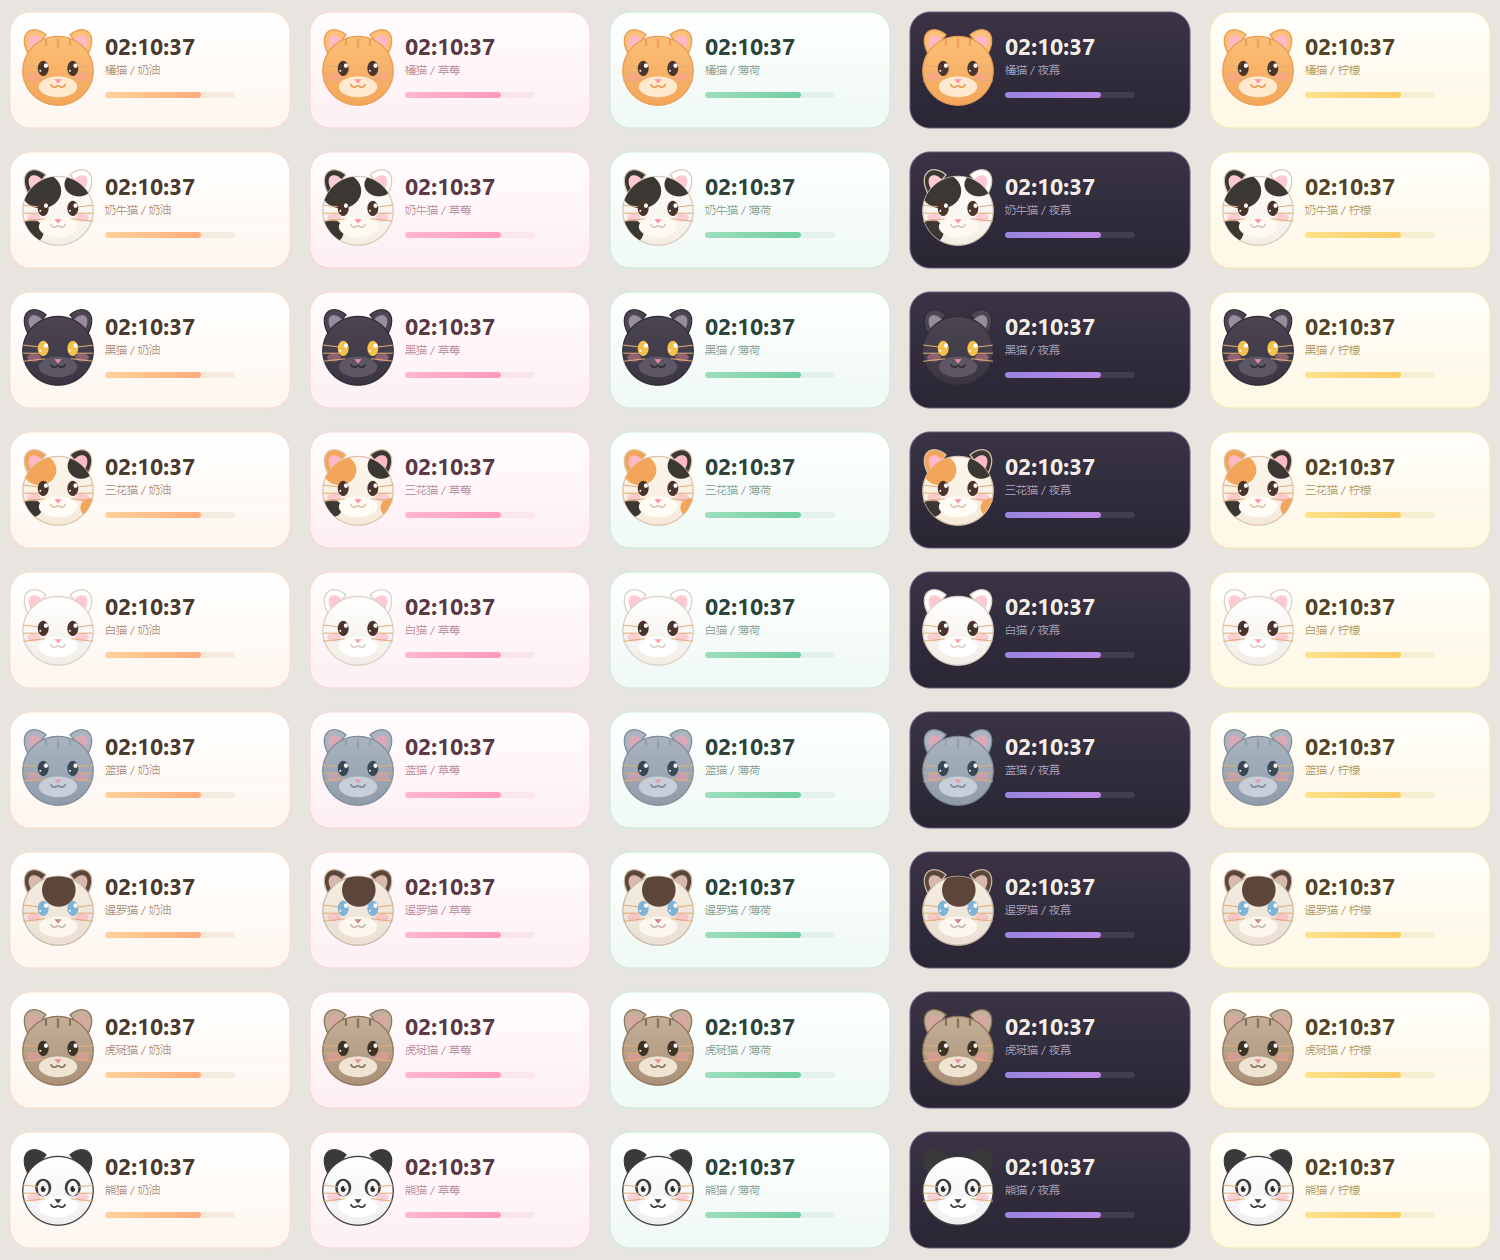
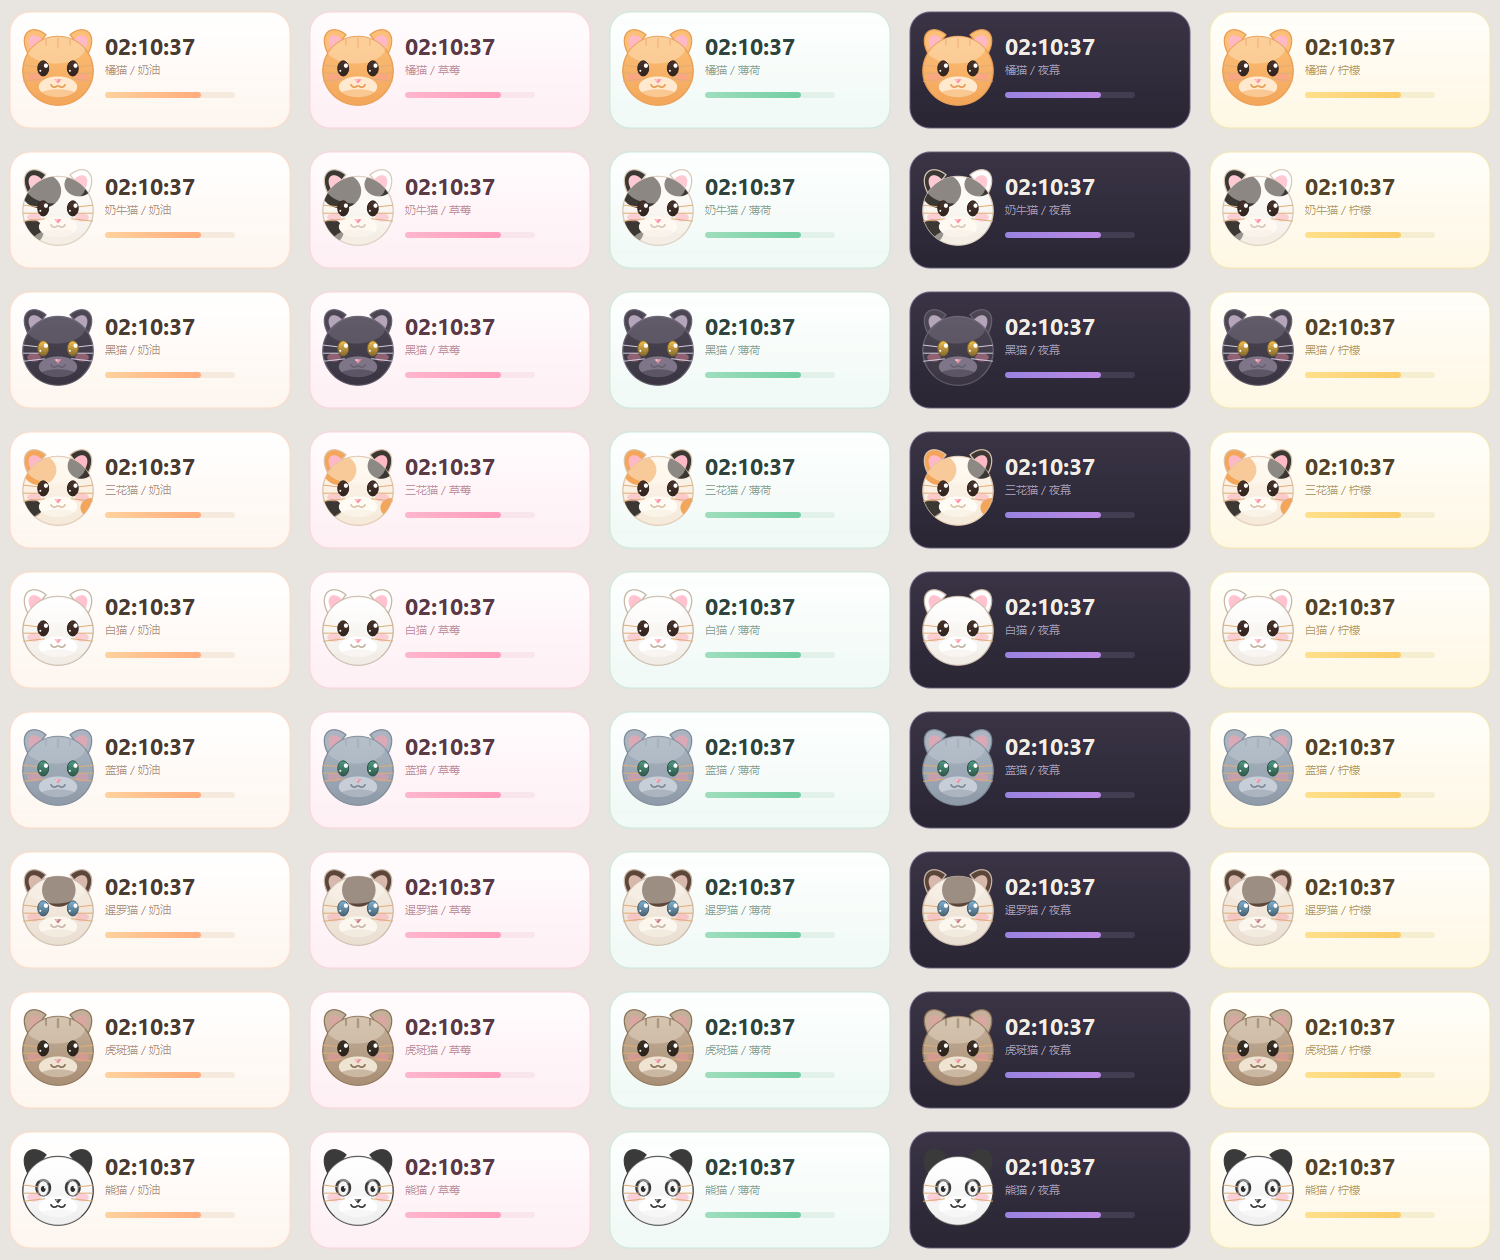
绘制模型全角色优化：自适应描边（深毛色浅色描边）、头顶受光+下巴阴影体积感、虹膜渐变+眼线、鼻头高光、胡须随毛色适配；黑猫提亮口鼻/耳内，白猫加深描边，蓝猫绿眼

diff --git a/cat_clock.py b/cat_clock.py
@@ -124,8 +124,8 @@ CHARACTERS = {
         ), ears=("#3B3733", None),
     ),
     "黑猫": dict(
-        fur="#4C4653", fur_d="#3A3542", fur_l="#5E5866", line="#2F2B36",
-        ear_in="#9A8BA0", nose="#E88FA0", eye="#F2C14E",
+        fur="#4C4653", fur_d="#3A3542", fur_l="#7E7688", line="#2F2B36",
+        ear_in="#B4A5BA", nose="#E88FA0", eye="#F2C14E",
         tabby=False, patches=(), ears=(None, None),
     ),
     "三花猫": dict(
@@ -139,13 +139,13 @@ CHARACTERS = {
         ), ears=("#F3A65A", "#3B3733"),
     ),
     "白猫": dict(
-        fur="#FFFFFF", fur_d="#F1ECE5", fur_l="#FFFFFF", line="#DACFC4",
-        ear_in="#FFC9D4", nose="#FF9FB0", eye="#4A342C",
+        fur="#FFFFFF", fur_d="#F1ECE5", fur_l="#FFFFFF", line="#C4B4A2",
+        ear_in="#FFC2CE", nose="#FF9FB0", eye="#4A342C",
         tabby=False, patches=(), ears=(None, None),
     ),
     "蓝猫": dict(
         fur="#AAB5C1", fur_d="#8F9BA9", fur_l="#C7CED7", line="#7D8997",
-        ear_in="#DBA9B5", nose="#E89AA8", eye="#3A4754",
+        ear_in="#DBA9B5", nose="#E89AA8", eye="#4E9E85",
         tabby=True, tabby_c="#93A0AE", patches=(), ears=(None, None),
     ),
     "暹罗猫": dict(
@@ -363,6 +363,20 @@ def rr(x, y, w, h, r):
 _FONT_CACHE = {}
 
 
+def _q_luma(c):
+    """颜色亮度 0-1（用于判断深/浅毛色，做自适应描边）"""
+    col = QColor(c)
+    return (0.299 * col.red() + 0.587 * col.green() + 0.114 * col.blue()) / 255.0
+
+
+def _mix(c1, c2, f):
+    """两色按比例混合，返回 QColor"""
+    a, b = QColor(c1), QColor(c2)
+    return QColor(int(a.red() + (b.red() - a.red()) * f),
+                  int(a.green() + (b.green() - a.green()) * f),
+                  int(a.blue() + (b.blue() - a.blue()) * f))
+
+
 def user_idle_seconds():
     """用户无键盘/鼠标输入的时长（秒），读取失败返回 0"""
     try:
@@ -412,7 +426,9 @@ def draw_cat(p, cx, cy, s, colors=None, blink=False, excited=False, sleepy=False
         blink = True
 
     lw = max(1.0, s * 0.016)
-    outline = QPen(QColor(colors["line"]), lw)
+    dark = _q_luma(colors["fur"]) < 0.42      # 深毛色：描边向浅色靠拢，避免糊成一团
+    line_c = _mix(colors["line"], colors["fur_l"], 0.72) if dark else QColor(colors["line"])
+    outline = QPen(line_c, lw)
     outline.setJoinStyle(Qt.PenJoinStyle.RoundJoin)
     outline.setCapStyle(Qt.PenCapStyle.RoundCap)
 
@@ -490,18 +506,37 @@ def draw_cat(p, cx, cy, s, colors=None, blink=False, excited=False, sleepy=False
             p.drawRoundedRect(QRectF(cx + off * s - ww * s / 2, cy - 0.40 * s, ww * s, hh * s),
                               ww * s / 2, ww * s / 2)
 
+    # ---- 顶部受光（体积感） ----
+    head_clip = QPainterPath()
+    head_clip.addEllipse(head_rect)
+    p.setClipPath(head_clip)
+    sheen = QColor(colors["fur_l"])
+    sheen.setAlpha(105)
+    p.setPen(Qt.PenStyle.NoPen)
+    p.setBrush(sheen)
+    p.drawEllipse(QRectF(cx - 0.40 * s, cy - 0.48 * s, 0.74 * s, 0.40 * s))
+    p.setClipping(False)
+
     # ---- 脸颊浅色 ----
     p.setPen(Qt.PenStyle.NoPen)
     p.setBrush(QColor(colors["fur_l"]))
     p.drawEllipse(QRectF(cx - 0.24 * s, cy + 0.08 * s, 0.48 * s, 0.26 * s))
+
+    # ---- 下巴阴影（贴合头部的下缘暗部） ----
+    p.setClipPath(head_clip)
+    chin = QColor(colors["fur_d"])
+    chin.setAlpha(130)
+    p.setBrush(chin)
+    p.drawEllipse(QRectF(cx - 0.32 * s, cy + 0.24 * s, 0.64 * s, 0.30 * s))
+    p.setClipping(False)
 
     # ---- 腮红 ----
     p.setBrush(QColor(255, 150, 170, 105))
     for sign in (-1, 1):
         p.drawEllipse(QRectF(cx + sign * 0.30 * s - 0.085 * s, cy + 0.04 * s, 0.17 * s, 0.105 * s))
 
-    # ---- 胡须 ----
-    hp = QPen(QColor("#E0AC76"), max(1.0, s * 0.012))
+    # ---- 胡须（深毛色用浅须，浅毛色用经典橘须） ----
+    hp = QPen(QColor("#CFC9DC") if dark else QColor("#E0AC76"), max(1.0, s * 0.012))
     hp.setCapStyle(Qt.PenCapStyle.RoundCap)
     p.setPen(hp)
     for sign in (-1, 1):
@@ -539,12 +574,23 @@ def draw_cat(p, cx, cy, s, colors=None, blink=False, excited=False, sleepy=False
             p.setBrush(Qt.BrushStyle.NoBrush)
             p.drawArc(QRectF(ex - s * 0.085, eye_y - s * 0.055, s * 0.17, s * 0.11),
                       180 * 16, 180 * 16)
-        else:                             # 大眼 + 双高光（瞳孔跟随 look 偏移）
+        else:                             # 大眼 + 虹膜渐变 + 双高光（瞳孔跟随 look 偏移）
             lx = max(-1.0, min(1.0, look[0])) * s * 0.030
             ly = max(-1.0, min(1.0, look[1])) * s * 0.022
             p.setPen(Qt.PenStyle.NoPen)
-            p.setBrush(QColor(colors["eye"]))
+            if colors.get("pupil"):            # 熊猫式：白眼 + 深色瞳孔
+                p.setBrush(QColor(colors["eye"]))
+            else:                              # 虹膜上浅下深，更有神
+                g = QLinearGradient(ex, eye_y - s * 0.095, ex, eye_y + s * 0.095)
+                g.setColorAt(0, QColor(colors["eye"]))
+                g.setColorAt(1, _mix(colors["eye"], "#14100E", 0.5))
+                p.setBrush(g)
             p.drawEllipse(QRectF(ex - s * 0.068, eye_y - s * 0.095, s * 0.136, s * 0.19))
+            # 虹膜外圈细眼线
+            p.setPen(QPen(_mix(colors["eye"], "#14100E", 0.55), max(1.0, s * 0.012)))
+            p.setBrush(Qt.BrushStyle.NoBrush)
+            p.drawEllipse(QRectF(ex - s * 0.068, eye_y - s * 0.095, s * 0.136, s * 0.19))
+            p.setPen(Qt.PenStyle.NoPen)
             if colors.get("pupil"):            # 熊猫式：白眼 + 深色瞳孔
                 p.setBrush(QColor(colors["pupil"]))
                 p.drawEllipse(QRectF(ex - s * 0.030 + lx, eye_y - s * 0.030 + ly, s * 0.060, s * 0.075))
@@ -564,9 +610,13 @@ def draw_cat(p, cx, cy, s, colors=None, blink=False, excited=False, sleepy=False
     nose.lineTo(cx, cy + 0.170 * s)
     nose.closeSubpath()
     p.drawPath(nose)
+    # 鼻头高光（全部角色通用，鼻子更立体）
+    p.setPen(Qt.PenStyle.NoPen)
+    p.setBrush(QColor(255, 255, 255, 150))
+    p.drawEllipse(QRectF(cx - s * 0.032, cy + 0.116 * s, s * 0.030, s * 0.021))
 
     # ---- 嘴（打哈欠为 O 形，否则 W 形） ----
-    p.setPen(QPen(QColor(colors["line"]), max(1.3, s * 0.022), Qt.PenStyle.SolidLine,
+    p.setPen(QPen(line_c, max(1.3, s * 0.022), Qt.PenStyle.SolidLine,
                   Qt.PenCapStyle.RoundCap))
     p.setBrush(Qt.BrushStyle.NoBrush)
     if mood == "yawn":
